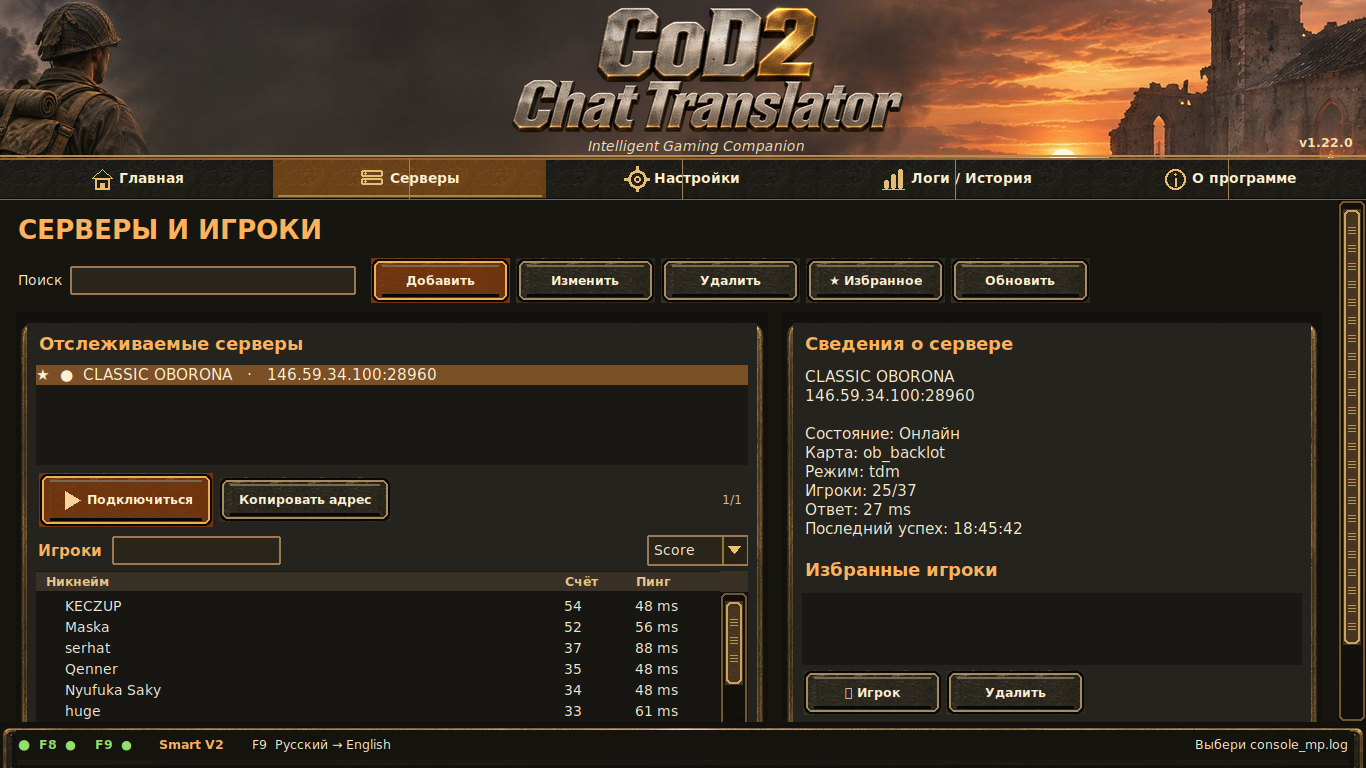
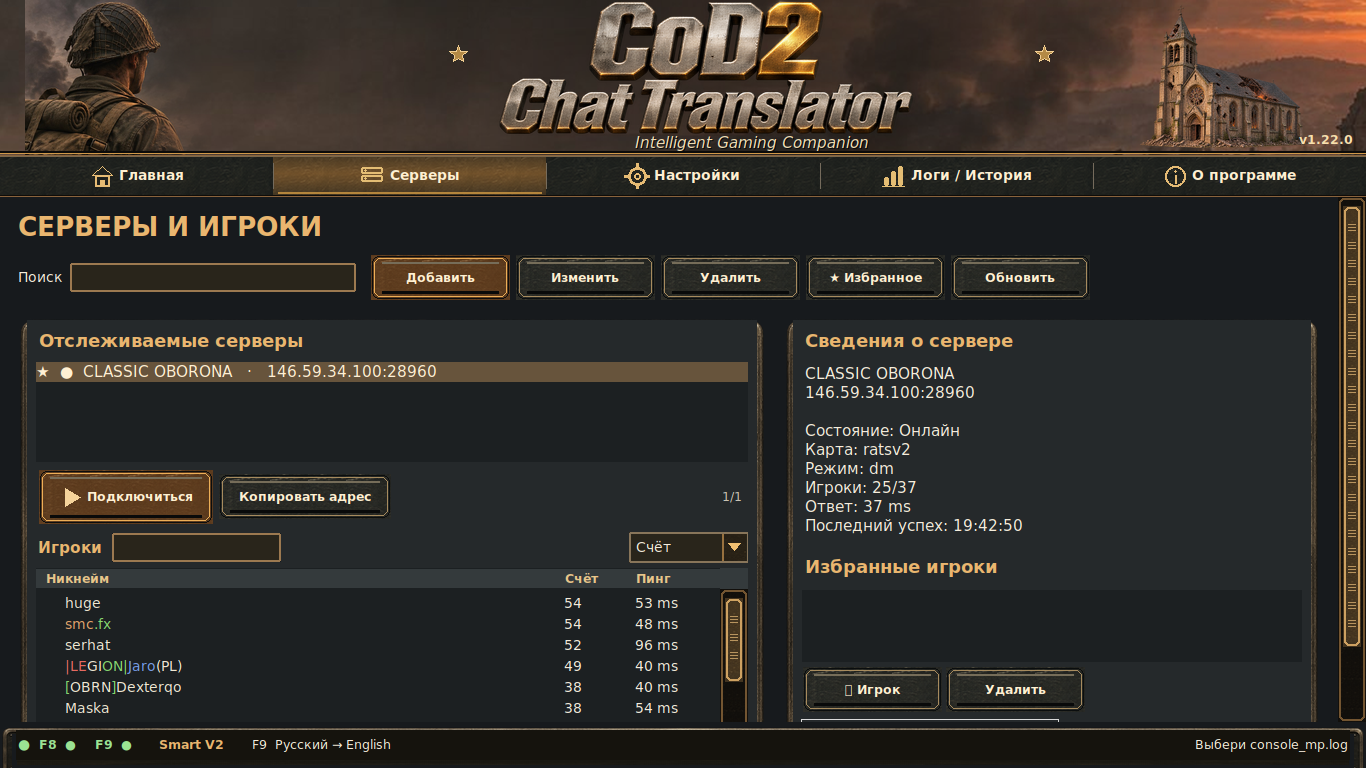
Show actual game state and archive final application captures

diff --git a/premium_home.py b/premium_home.py
@@ -1,6 +1,7 @@
 """Live command center with two translation bays and a CoD2 server monitor."""
 from __future__ import annotations
 
+import os
 import tkinter as tk
 from tkinter import ttk
 from PIL import Image, ImageTk
@@ -212,7 +213,7 @@ class PremiumHome:
         # One textured surface carries the three sections. Only the actual
         # controls are Tk child windows; captions and separators do not hide it.
         overlay_icon=rail.create_image(0,0,image=ui_photo(rail,"quick_screenshot.png"),anchor="center")
-        engine_icon=rail.create_image(0,0,image=ui_photo(rail,"nav_settings.png"),anchor="center")
+        engine_icon=rail.create_image(0,0,image=ui_photo(rail,"premium_chip.png"),anchor="center")
         rail.create_text(0,0,text=local(a,"Оверлей","Оверлей","Overlay"),anchor="w",
                          fill=TEXT,font=(FONT,12,"bold"),tags="overlay_title")
         rail.create_text(0,0,text="Smart Engine",anchor="w",
@@ -243,6 +244,8 @@ class PremiumHome:
             0,0,text="",anchor="w",fill=MUTED,font=(FONT,9)))
         self.system_status=CanvasText(rail,rail.create_text(
             0,0,text="",anchor="w",fill=GREEN,font=(FONT,10)))
+        self.game_status=CanvasText(rail,rail.create_text(
+            0,0,text="",anchor="w",fill=MUTED,font=(FONT,9)))
         def layout(event):
             width=event.width
             third=width/3
@@ -263,6 +266,7 @@ class PremiumHome:
             rail.coords("status_icon",round(third*2+24),19,round(third*2+39),34)
             rail.coords("status_title",round(third*2+54),23)
             rail.coords(self.system_status.item,round(third*2+50),58)
+            rail.coords(self.game_status.item,round(third*2+50),83)
         rail.bind("<Configure>",layout,add="+")
 
     def _hide_tip(self):
@@ -376,6 +380,16 @@ class PremiumHome:
                          "Журнал доступний · переклад активний",
                          "Game log found · translation active")
         self.system_status.configure(text=status, fg=GREEN if enabled and log_available else AMBER if enabled else MUTED)
+        if os.name=="nt":
+            from app import find_cod2_window
+            game_detected=bool(find_cod2_window())
+            game_label=(local(self.app,"Окно CoD2 обнаружено","Вікно CoD2 виявлено","CoD2 window detected")
+                        if game_detected else
+                        local(self.app,"Окно CoD2 не обнаружено","Вікно CoD2 не виявлено","CoD2 window not detected"))
+            self.game_status.configure(text=game_label,fg=GREEN if game_detected else MUTED)
+        else:
+            self.game_status.configure(text=local(self.app,"Проверка игры — в Windows",
+                "Перевірка гри — у Windows","Game detection — Windows only"),fg=MUTED)
         self.f8_detail.configure(text="Auto → "+self.app.target_name_var.get())
         self.f9_detail.configure(text=self.app.outgoing_chat.route_var.get())
 

diff --git a/tools/build_premium_ui.py b/tools/build_premium_ui.py
@@ -108,6 +108,18 @@ def main():
             d.line((5, 36, 59, 36), fill=(247, 177, 68, 175 if state=="active" else 95), width=2)
         nav.save(OUT / f"premium_nav_{state}.png", optimize=True)
 
+    chip = Image.new("RGBA", (28, 28))
+    chip_draw = ImageDraw.Draw(chip)
+    gold = (228, 190, 116, 245)
+    chip_draw.rounded_rectangle((7, 7, 21, 21), radius=2, outline=gold, width=2)
+    chip_draw.rectangle((11, 11, 17, 17), fill=(133, 164, 118, 230))
+    for coord in (10, 14, 18):
+        chip_draw.line((coord, 3, coord, 7), fill=gold, width=2)
+        chip_draw.line((coord, 21, coord, 25), fill=gold, width=2)
+        chip_draw.line((3, coord, 7, coord), fill=gold, width=2)
+        chip_draw.line((21, coord, 25, coord), fill=gold, width=2)
+    chip.save(OUT / "premium_chip.png", optimize=True)
+
     # Distinct plus pictogram for the actual add-server action.
     add = Image.new("RGBA", (22, 22))
     add_draw = ImageDraw.Draw(add)

diff --git a/docs/FINAL_ART_RC.md b/docs/FINAL_ART_RC.md
@@ -1,41 +1,34 @@
-# CoD2 Chat Translator v1.22.0 RC — visual and functional acceptance
+# CoD2 Chat Translator v1.22.0 RC — composition acceptance
 
-Base: `61ab2679b4ac4d34d721e4002c5485f199d5add4`. Existing draft PR #8; stable branch unchanged.
+Draft PR #8, branch `feature/premium-ui-redesign`; no stable release or merge. Base for this pass: `b2018feb4adfc58428b5e5bfef2a19aea94bb078`.
 
-## Real running application
+## Real application screenshots
 
-All images in `docs/images/final_art_rc/` are screenshots captured with ffmpeg from the actual Tk application under Linux/Xvfb at 1366×768. They are not generated concepts or Windows captures. The design reference remains `docs/images/server_monitor_rc/reference.png`.
+`docs/images/final_art_rc/xvfb_*.png` contains 11 screenshots taken by ffmpeg from the actual running Tk application at 1366×768 with Linux Xvfb. Pages: home, servers, translation, overlay, knowledge, stats, settings, history. Dialogs: server configuration, About, knowledge. The approved artistic reference is `docs/images/server_monitor_rc/reference.png`. The screenshots do not represent a Windows installation.
 
-- `xvfb_home.png` — distinct illustrated F8 town and F9 tank; no opaque content frame, live controls, one soldier with torso in panoramic header, continuous navigation and functional bottom rail.
-- `xvfb_servers.png`, `xvfb_translation.png`, `xvfb_overlay.png`, `xvfb_settings.png`, `xvfb_history.png`, `xvfb_knowledge.png`, `xvfb_stats.png` — other live pages.
-- `xvfb_dialog_server.png`, `xvfb_dialog_about.png`, `xvfb_dialog_knowledge_dialog.png` — actual dialogs.
+The new banner composes a distinct complete church and a larger soldier over a city panorama, preserving their aspect ratio. The logo is a separate asset and the subtitle is legible below it. The tab dividers sit between labels. The green F8/F9 and lower rail toggles remain live checkbuttons. The server list uses actual UDP observations; the five visible player rows are real data, with color runs preserved. A missing game journal is now explicitly signaled, and on Windows the game-window state is separately detected. All expert pages share the graphite palette; the history uses the same styled scrollbar; About uses the approved metallic logo.
 
-## Behavior checked
+Compared with the reference, the application still has simpler expert forms and no decorative crate/helmet in the compact Home. Its native Windows titlebar requests dark DWM chrome where supported. At 150% simulated Tk scale on 1366×768, Home scrolls to preserve live controls. Real Windows scale, titlebar and F10 overlay require native validation.
 
-- pytest: 221 passed, 1 skipped.
-- Xvfb smoke: five live navigation controls; eight pages; F8/F9 keyboard-facing illustrated keys and actual switches; RU/UK/EN; settings callbacks; 1050px layout; 1366×768 Home with no vertical scrolling in simulated 100% Tk scaling.
-- Player roster refresh now preserves scroll position and skips unchanged contents. Server lists preserve selection and scroll. Added live smoke assertion with 32 players and one joining.
-- The monitor queried real CoD2 UDP data from CLASSIC OBORONA on the VPS during capture. Names, scores, ping, map and status in screenshots are observed responses at capture time, not bundled sample data.
-- F10 in-game overlay, Windows native DPI and player notifications were not validated on Windows in this environment. The owner's prior installed Windows screenshot refers to the previous SHA.
+## Functional verification
 
-## Performance comparison
+- `pytest -q`: 221 passed, 1 skipped.
+- Synthetic semantic safety checks: 32/32, zero unsafe accepted and zero valid rejected. This is not an actual in-game translation benchmark.
+- Real application smoke at 1366×768, 1536×864 and 1920×1080; simulated 100%, 125%, 150% Tk scales; RU, UK and EN; navigation, F8/F9, settings and overlay callbacks, preserved player scroll. At 1366×768 / 100%, Home content is 490 px inside a 495 px viewport.
+- Server/players in the screenshots came from a real CoD2 UDP query. An offline Windows computer was not touched. Native F10, installation and Windows DPI cannot be attested by Linux/Xvfb.
 
-Same VPS, Python 3.12/Tk 8.6, 1366×768 Xvfb, temporary empty configuration; one measured run per revision. CPU uses process time in seconds; memory uses peak resident set size in MiB.
+## Performance — same VPS, one run per revision
 
-| Phase | Previous RC `61ab267` | New UI |
+Python/Tk under 1366×768 Xvfb with empty isolated configuration. CPU measures seconds of process time; memory is peak resident set size in MiB. The previous RC values below were recorded for `b2018feb` on the same VPS. One-run results vary with host load.
+
+| Phase | Previous RC `b2018feb` | This pass |
 | --- | ---: | ---: |
-| First window initialized, elapsed | 4.616 s | 5.686 s |
-| First window initialized, CPU | 2.792 s | 3.221 s |
-| Peak RSS at initialized window | 133.3 MiB | 134.2 MiB |
-| Four seconds idle, CPU | 0.631 s | 0.593 s |
-| Peak RSS after idle | 142.5 MiB | 142.0 MiB |
-| Four seconds after manual refresh, CPU | 0.144 s | 0.158 s |
-| Peak RSS after refresh | 142.5 MiB | 142.0 MiB |
+| Startup wall time | 5.686 s | 3.345 s |
+| Startup CPU time | 3.221 s | 2.805 s |
+| Startup peak RSS | 134.2 MiB | 143.5 MiB |
+| Four seconds idle, CPU | 0.593 s | 0.791 s |
+| Peak RSS after idle | 142.0 MiB | 150.6 MiB |
+| Four seconds following manual refresh, CPU | 0.158 s | 0.157 s |
+| Peak RSS following refresh | 142.0 MiB | 150.6 MiB |
 
-The artwork adds about 1.1 s to cold startup in this sample, while idle and refresh CPU and memory remain close to baseline. This is a Linux/Xvfb measurement, not a native Windows or in-game benchmark.
-
-## Visual comparison with approved reference
-
-The separate logo, single helmet-and-backpack soldier, unified metal navigation, different F8/F9 scenes, drawn-on-art text, visible tank, metal keycaps, status rail and live server tables now follow the reference composition. The accepted reference has a custom dark titlebar and additional helmet/crate decoration. The application requests a dark native DWM titlebar on Windows where supported, retaining native resize, taskbar and system shortcuts; this requires confirmation on the owner's Windows install. The compact layout hides secondary decoration. Tk comboboxes, text inputs and some expert pages retain simple rectangular controls; final artistic approval is the owner's decision after a new native Windows install.
-
-The RC installer is a test artifact from Windows GitHub Actions; no stable Release was published and PR #8 remains draft.
+The additional independent full-height church asset increases resident memory by about 9 MiB in this sample; no continuous full-frame animation was added. Native Windows idle, in-game CPU and graphics memory remain unmeasured.
